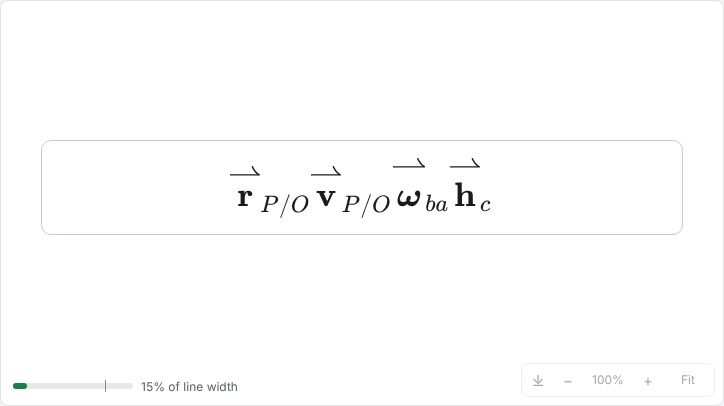
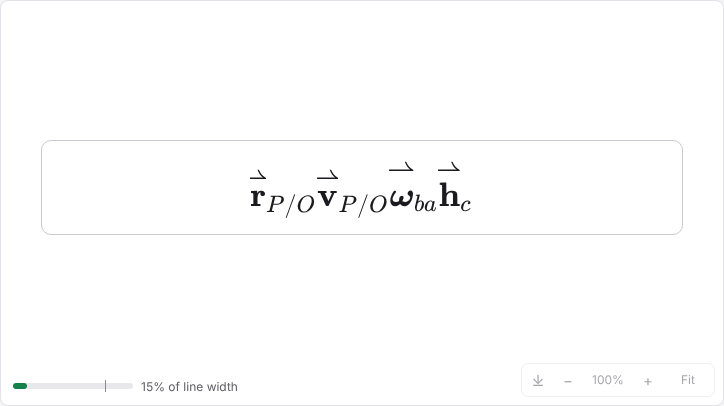
Editor harpoons as wide as the letter; index right after it
Display rules in the field's shadow root (no padding, harpoon width 100% of the
letter, 0.1em closer). accent-index-check measures the gap (<= thin space) and
the harpoon/letter width ratio (+-20%).

Claude-Session: https://claude.ai/code/session_01K326sXtcH4DuAyWA63Q1us

Changed region(s): [[0.3039, 0.3842, 0.6685, 0.532], [0.4254, 0.4138, 0.4862, 0.4433]]

diff --git a/tools/accent-index-check.ts b/tools/accent-index-check.ts
@@ -17,6 +17,7 @@ import { tmpdir } from "node:os";
 import { join } from "node:path";
 import { fileURLToPath, pathToFileURL } from "node:url";
 import { chromium } from "playwright";
+import { EDITOR_ACCENT_CSS } from "../app/src/lib/editorAccents";
 import { fromEditorLatex, toEditorLatex } from "../app/src/lib/kinds";
 
 const shots = process.argv[2];
@@ -29,6 +30,12 @@ writeFileSync(html, `<!doctype html><html><body style="margin:20px"><math-field 
 await page.goto(pathToFileURL(html).href);
 await page.waitForFunction(() => (window as unknown as { __ready?: boolean }).__ready === true, null, { timeout: 30000 });
 await page.evaluate("window.__name = (f) => f");
+// The editor's own accent display rules (as MathEditor adds them to the field's shadow root).
+await page.evaluate((css) => {
+  const st = document.createElement("style");
+  st.textContent = css;
+  (document.getElementById("mf") as unknown as { shadowRoot: ShadowRoot }).shadowRoot.appendChild(st);
+}, EDITOR_ACCENT_CSS);
 
 interface Atom {
   offset: number;
@@ -86,12 +93,25 @@ interface Vec {
 }
 
 /** Checks each vector of an equation (in order) and returns the accent widths. */
+const gaps: number[] = [];
+const ratios: number[] = [];
 async function checkCase(stored: string, vecs: Vec[]): Promise<number[]> {
+  const wantsHarpoon = /overrightharpoon|\\pvec/.test(stored);
   const editor = toEditorLatex(stored);
   const back = fromEditorLatex(editor).latex;
   if (process.env.DEBUG) console.log(stored, editor, JSON.stringify((await atoms(editor)).map((a) => [a.latex, Math.round(a.l), Math.round(a.r), Math.round(a.t), Math.round(a.b)])));
   if (back !== stored) fail(`${stored}: the stored LaTeX changes through the editor (${back})`);
   const as = await atoms(editor);
+  // The harpoons as drawn (their boxes), to compare with the letters' widths.
+  const harpoons = await page.evaluate(() =>
+    Array.from((document.getElementById("mf") as unknown as { shadowRoot: ShadowRoot }).shadowRoot.querySelectorAll('span[style*="min-width"]'))
+      .filter((e) => e.querySelector('path[d^="M0 241v40h399993"]'))
+      .map((e) => {
+        const r = e.getBoundingClientRect();
+        return { l: r.left, r: r.right, b: r.bottom };
+      }),
+  );
+  const fontPx = 48;
   let from = 0;
   const widths: number[] = [];
   let prevScriptRight = -Infinity;
@@ -126,6 +146,20 @@ async function checkCase(stored: string, vecs: Vec[]): Promise<number[]> {
     const h = base.b - base.t;
     const what = `${stored}: ${v.base}${v.sup ? "^" : "_"}{${v.script}}`;
     if (sl < right - 0.5) fail(`${what}: the index starts under the letter (index left ${sl.toFixed(1)}, letter right ${right.toFixed(1)})`);
+    // The index starts right after the letter: at most a thin space (3/18 em) from the letter's right edge.
+    const gap = sl - base.r;
+    // (\overrightarrow keeps MathLive's own width — its arrow is shared with \xrightarrow — and is only reported.)
+    if (/overrightarrow/.test(stored)) console.log(`      ${what}: gap ${(gap / fontPx).toFixed(2)} em (reported)`);
+    else if (gap > (3 / 18) * fontPx + 0.5) fail(`${what}: a gap of ${(gap / fontPx).toFixed(2)} em between the letter and its index (more than a thin space)`);
+    gaps.push(gap / fontPx);
+    // A harpoon over this letter: about the letter's width (±20 %), close above it.
+    const hp = harpoons.find((h) => (h.l + h.r) / 2 >= base.l - 4 && (h.l + h.r) / 2 <= base.r + 4);
+    if (wantsHarpoon && !hp) fail(`${what}: no harpoon found over the letter`);
+    if (hp) {
+      const ratio = (hp.r - hp.l) / (base.r - base.l);
+      ratios.push(ratio);
+      if (ratio < 0.8 || ratio > 1.2) fail(`${what}: the harpoon is ${(ratio * 100).toFixed(0)} % of the letter's width (outside ±20 %)`);
+    }
     if (v.sup) {
       if (!(st < base.t)) fail(`${what}: the superscript is not above the letter's top (${st.toFixed(1)} ≥ ${base.t.toFixed(1)})`);
       if (!(sb > base.t + 0.2 * h)) fail(`${what}: the superscript floats above the letter`);
@@ -185,4 +219,5 @@ if (failures.length) {
   console.log(`${failures.length} failure(s).`);
   process.exit(1);
 }
+console.log(`Gap letter → index: ${Math.min(...gaps).toFixed(2)}–${Math.max(...gaps).toFixed(2)} em; harpoon / letter width: ${Math.min(...ratios).toFixed(2)}–${Math.max(...ratios).toFixed(2)}.`);
 console.log(`Indices after accents in the editor: ${n} cases — each index right of its letter at the script position, harpoon width independent of the index, no overlaps in a run, stored LaTeX unchanged.`);

diff --git a/tools/_probe2.ts b/tools/_probe2.ts
@@ -1,0 +1,19 @@
+/// <reference lib="dom" />
+import { mkdtempSync, realpathSync, writeFileSync } from "node:fs";
+import { tmpdir } from "node:os";
+import { join } from "node:path";
+import { fileURLToPath, pathToFileURL } from "node:url";
+import { chromium } from "playwright";
+const mathlive = pathToFileURL(realpathSync(fileURLToPath(new URL("../app/node_modules/mathlive/mathlive.min.mjs", import.meta.url)))).href;
+const browser = await chromium.launch({ args: ["--allow-file-access-from-files"] });
+const page = await browser.newPage({ viewport: { width: 900, height: 200 } });
+const html = join(mkdtempSync(join(tmpdir(), "mb-p-")), "page.html");
+writeFileSync(html, `<!doctype html><html><body><math-field id="mf" style="font-size:48px"></math-field><script type="module">import "${mathlive}"; window.__ready = true;</script></body></html>`);
+await page.goto(pathToFileURL(html).href);
+await page.waitForFunction(() => (window as any).__ready === true);
+const css = process.argv[3] ?? "";
+await page.evaluate((c) => { const st = document.createElement("style"); st.textContent = c; (document.getElementById("mf") as any).shadowRoot.appendChild(st); }, css);
+await page.evaluate((l) => { (document.getElementById("mf") as any).value = l; }, process.argv[2]!);
+await page.waitForTimeout(300);
+await page.screenshot({ path: process.argv[4] ?? "/tmp/claude-0/-home-user-math-blocks/d39c3914-3271-51bb-b427-b70248749f68/scratchpad/probe/p.png" });
+await browser.close();

diff --git a/app/src/lib/editorAccents.ts b/app/src/lib/editorAccents.ts
@@ -62,3 +62,18 @@ export function ungroupScriptedAccents(latex: string): string {
   for (const [a, b] of spans.sort((x, y) => y[0] - x[0])) out = `${out.slice(0, a)}${out.slice(a + 1, b)}${out.slice(b + 1)}`;
   return out;
 }
+
+/**
+ * Editor display of harpoons (\overrightharpoon and the kinds drawn with it), added to the visual editor's shadow
+ * root: MathLive draws a stretchy harpoon at least 0.888 em wide and pads the letter with two null delimiters, so
+ * the accent box is wider than the letter and the index starts after the harpoon's end. These rules size the
+ * harpoon to the letter and bring it a little closer above it, so the index starts right after the letter (as in
+ * Word). Display only: the LaTeX is unchanged. The harpoon is recognised by its SVG path (MathLive's
+ * rightharpoon); tools/accent-index-check.ts measures the result in headless MathLive.
+ */
+const HARPOON = '.ML__vlist:has(> .ML__center path[d^="M0 241v40h399993"])';
+export const EDITOR_ACCENT_CSS = `
+${HARPOON} > .ML__center > span > .ML__nulldelimiter { width: 0 !important; }
+${HARPOON} > .ML__center > span:has(> span[style*="min-width"]) { width: 100%; }
+${HARPOON} > .ML__center > span > span[style*="min-width"] { min-width: 0 !important; width: 100%; transform: translateY(0.1em); }
+`;

diff --git a/app/src/components/MathEditor.tsx b/app/src/components/MathEditor.tsx
@@ -1,3 +1,4 @@
+import { EDITOR_ACCENT_CSS } from "../lib/editorAccents";
 import { isAllBold, KIND_BY_ID, KINDS, setBold, type BoldScope } from "@mathblocks/math-core";
 import { explainSymbol, kindDisplayName } from "@mathblocks/math-core";
 import { symbolContextAt } from "../lib/kindHover";
@@ -625,7 +626,7 @@ export function MathEditor() {
     host.current?.addEventListener("contextmenu", onMenu, true);
     try {
       const style = document.createElement("style");
-      style.textContent = kindHintCss();
+      style.textContent = kindHintCss() + EDITOR_ACCENT_CSS;
       kindTooltip(mf);
       mf.shadowRoot?.appendChild(style);
     } catch {

diff --git a/docs/STATUS.md b/docs/STATUS.md
@@ -61,6 +61,27 @@ checks) and with screenshots.
   ![Empty editor, 1366×768, 100 %](images/ui/empty-editor-1366x768-100.png)
   ![Empty editor, 900×600, 400 %](images/ui/empty-editor-900x600-400.png)
 
+#### 3. Accent indices, polish: harpoon the letter's width, index right after the letter — built
+
+- MathLive draws a stretchy harpoon at least 0.888 em wide and pads the letter with two 0.12 em null
+  delimiters, so the accent box was about twice the letter and the index started after the harpoon's end. The
+  editor now adds display rules to the field (`EDITOR_ACCENT_CSS` in `app/src/lib/editorAccents.ts`): for a
+  harpoon accent (kinds drawn with it and `\overrightharpoon`), no padding, the harpoon as wide as the letter
+  and 0.1 em closer above it. Display only: the LaTeX, hit-testing and editing are unchanged (round trip, keys,
+  hover, blocks and snippets checks all pass).
+- `\overrightarrow` keeps MathLive's width: its arrow is the same drawing as `\xrightarrow`'s, whose arrow must
+  stay as wide as its label; its gap (0.18 em) is reported by the check, not failed.
+- **accent-index-check** now also measures: the gap from the letter's right edge to the index ≤ a thin space
+  (3/18 em) — measured 0.02–0.17 em over all harpoon, hat, bar and kind cases; each harpoon's width within ±20 %
+  of its letter — measured 103–107 %. Without the rules the check fails 16 times (gap 0.23 em, harpoon 196 %).
+  ![Editor (app), repro](images/ui/accent-index-app-editor.png)
+  ![MathLive with the editor's rules (the check's screenshot)](images/ui/accent-index-mathlive.png)
+
+#### 4. Reference links — waiting for your self-test report
+
+When it arrives I will report the "top of the tall equation on screen" results (Word and PDF) and apply the
+`_MBEqT_` fix if either is out of view.
+
 ### Docked preview height; indices after accent-style vectors — built
 
 - **Bottom panel height:** the splitter above the tabs drags it (up to the window's height less 260 px, so the

diff --git a/docs/CHANGELOG.md b/docs/CHANGELOG.md
@@ -25,6 +25,10 @@ All notable changes are recorded here. Format: [Keep a Changelog](https://keepac
 - `connector-protocol`: JSON-RPC protocol v1 between app and connector.
 - GitHub Actions: tests on Linux; Windows build of the installer and connector.
 
+### Changed — editor harpoons
+- In the visual editor a harpoon (kinds and `\overrightharpoon`) is as wide as its letter and sits closer above it;
+  the index starts right after the letter. Display only.
+
 ### Fixed — empty editor hints
 - One plain grey placeholder in the field (gone on the first keystroke) and one shortcut line below it; nothing
   drawn over the field's border or under the zoom tools.
